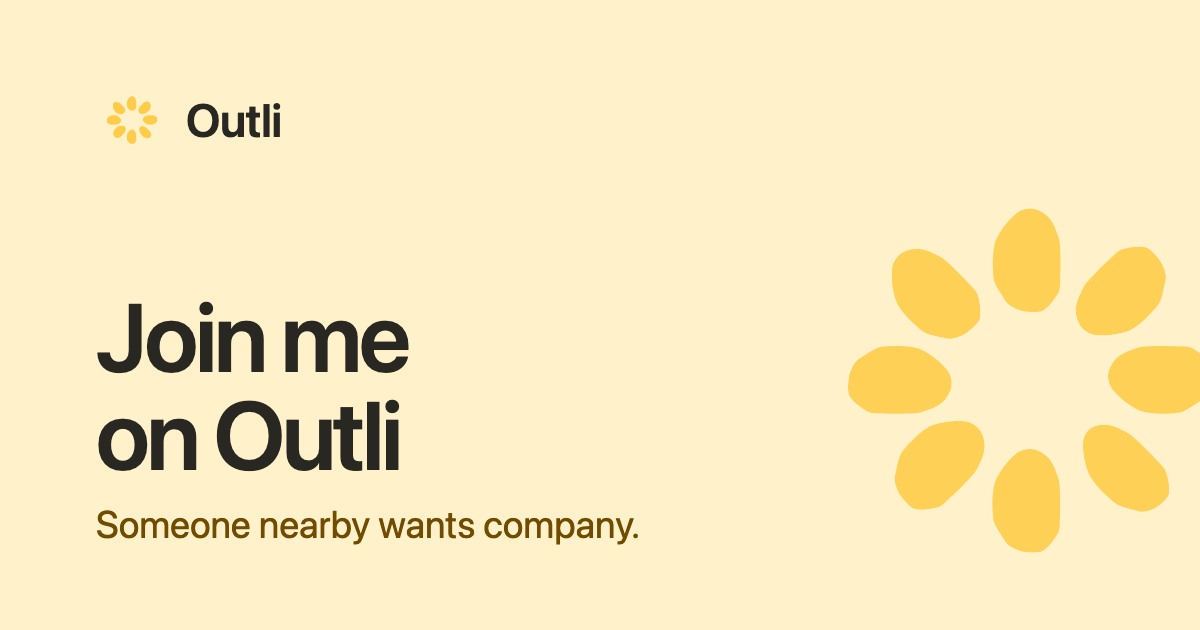
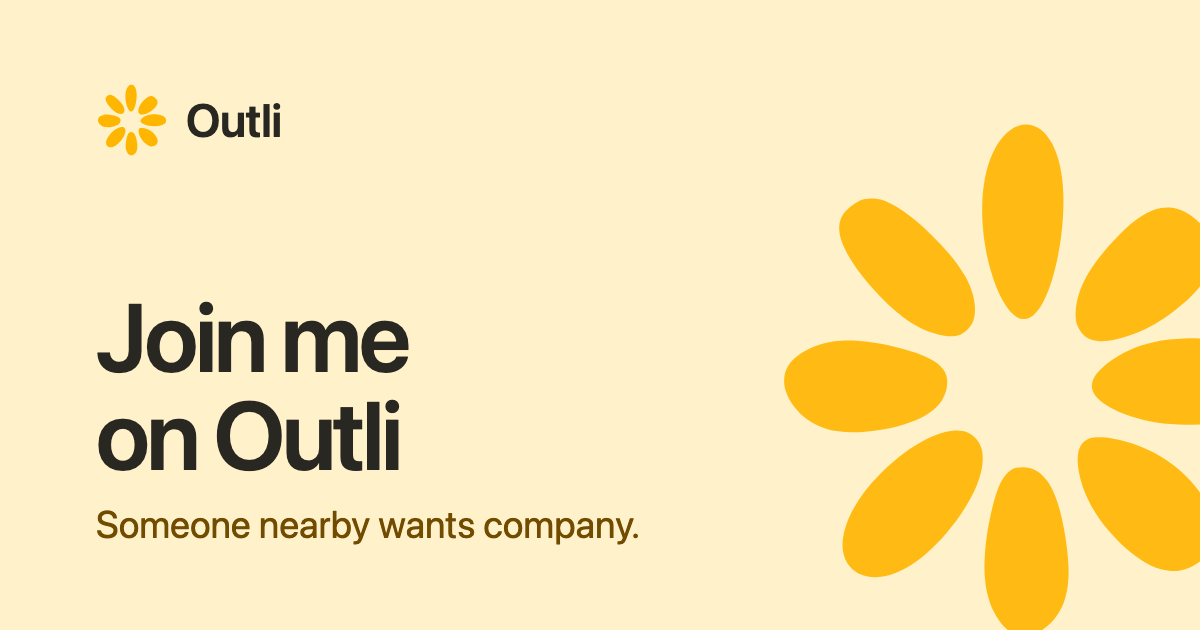
The G3 flower and the new app on the website
- New icon (Assets/app-icon.png) for favicons and the nav/hero logo; the
  share page and its link preview use it too.
- "How it works" mockups show the redesigned app.
- Step 2 is "Join in one tap": open activities take you straight to the chat.

Changed region(s): [[0.6475, 0.181, 1.0, 1.0], [0.0617, 0.1206, 0.1542, 0.2413]]

diff --git a/index.html b/index.html
@@ -3,8 +3,8 @@
   <head>
     <meta charset="UTF-8" />
     <meta name="viewport" content="width=device-width, initial-scale=1.0" />
-    <link rel="icon" href="Assets/App Icon Template-2.png" type="image/png" />
-    <link rel="apple-touch-icon" href="Assets/App Icon Template-2.png" />
+    <link rel="icon" href="Assets/app-icon.png" type="image/png" />
+    <link rel="apple-touch-icon" href="Assets/app-icon.png" />
     <title>Outli — Get Out. Live.</title>
     <meta
       name="description"
@@ -452,7 +452,7 @@
     <!-- NAV -->
     <nav class="site-nav">
       <a href="index.html" class="nav-logo">
-        <img src="Assets/App Icon Template-2.png" alt="Outli" />
+        <img src="Assets/app-icon.png" alt="Outli" />
         <span class="nav-logo-name">Outli</span>
       </a>
       <a href="https://apps.apple.com/us/app/outli/id6760399990" target="_blank" rel="noopener" class="nav-cta">Download on the App Store</a>
@@ -461,7 +461,7 @@
     <!-- HERO -->
     <section class="hero">
       <div class="hero-logo">
-        <img src="Assets/App Icon Template-2.png" alt="Outli logo" />
+        <img src="Assets/app-icon.png" alt="Outli logo" />
       </div>
       <h1 class="hero-headline">
         New City. So much to experience.<br />But don't know anyone?<br />So you
@@ -508,8 +508,8 @@
             </div>
             <div class="step-tab" data-step="1">
               <div class="step-tab-num">02</div>
-              <div class="step-tab-title">Join &amp; accept</div>
-              <p class="step-tab-desc">Join activities happening around you and accept who joins yours.</p>
+              <div class="step-tab-title">Join in one tap</div>
+              <p class="step-tab-desc">See what people nearby want to do. Tap Join and you're straight in the chat.</p>
             </div>
             <div class="step-tab" data-step="2">
               <div class="step-tab-num">03</div>
@@ -568,7 +568,7 @@
     <!-- FOOTER -->
     <footer>
       <a href="index.html" class="footer-logo">
-        <img src="Assets/App Icon Template-2.png" alt="Outli" />
+        <img src="Assets/app-icon.png" alt="Outli" />
         <span>Outli</span>
       </a>
       <div class="footer-links">
@@ -583,7 +583,7 @@
       const mobileDesc = document.querySelector(".mobile-step-desc");
       const stepDescs = [
         "Sign up and finish the sentence. Tell Outli what you're up for — coffee, football, museum, anything.",
-        "Join activities happening around you and accept who joins yours.",
+        "See what people nearby want to do. Tap Join and you're straight in the chat.",
         "Show up. Do the thing. Meet your people. Together.",
         "Keep going. Build your social circle, one activity at a time.",
       ];

diff --git a/a/index.html b/a/index.html
@@ -13,7 +13,7 @@
   <meta property="og:image:width" content="1200" />
   <meta property="og:image:height" content="630" />
   <meta name="twitter:card" content="summary_large_image" />
-  <link rel="icon" href="/Assets/App%20Icon%20Template-2.png" />
+  <link rel="icon" href="/Assets/app-icon.png" />
   <!-- The Smart App Banner's "Open" hands this link to the app, which opens the activity. -->
   <script>
     document.write('<meta name="apple-itunes-app" content="app-id=6760399990, app-argument=' + location.href.replace(/"/g, '') + '">');
@@ -55,7 +55,7 @@
     }
     main { width: 100%; max-width: 440px; display: flex; flex-direction: column; gap: 24px; }
     .brand { display: flex; align-items: center; gap: 8px; text-decoration: none; color: var(--ink); font-weight: 600; font-size: 1.05rem; }
-    .brand img { width: 28px; height: 28px; }
+    .brand img { width: 28px; height: 28px; border-radius: 7px; }
     .card {
       background: var(--surface);
       border: 1px solid var(--border);
@@ -96,7 +96,7 @@
 </head>
 <body>
   <main>
-    <a class="brand" href="/"><img src="/Assets/App%20Icon%20Template-2.png" alt="" />Outli</a>
+    <a class="brand" href="/"><img src="/Assets/app-icon.png" alt="" />Outli</a>
 
     <section class="card" id="activity" hidden>
       <div class="who"><img id="owner-photo" alt="" hidden /><span id="who"></span></div>

diff --git a/privacy.html b/privacy.html
@@ -3,8 +3,8 @@
   <head>
     <meta charset="UTF-8" />
     <meta name="viewport" content="width=device-width, initial-scale=1.0" />
-    <link rel="icon" href="Assets/App Icon Template-2.png" type="image/png" />
-    <link rel="apple-touch-icon" href="Assets/App Icon Template-2.png" />
+    <link rel="icon" href="Assets/app-icon.png" type="image/png" />
+    <link rel="apple-touch-icon" href="Assets/app-icon.png" />
 
     <title>Outli Privacy Policy</title>
 

diff --git a/termsofuse.html b/termsofuse.html
@@ -3,8 +3,8 @@
   <head>
     <meta charset="UTF-8" />
     <meta name="viewport" content="width=device-width, initial-scale=1.0" />
-    <link rel="icon" href="Assets/App Icon Template-2.png" type="image/png" />
-    <link rel="apple-touch-icon" href="Assets/App Icon Template-2.png" />
+    <link rel="icon" href="Assets/app-icon.png" type="image/png" />
+    <link rel="apple-touch-icon" href="Assets/app-icon.png" />
 
     <title>Outli Terms of Use</title>
 

diff --git a/support.html b/support.html
@@ -3,8 +3,8 @@
   <head>
     <meta charset="UTF-8" />
     <meta name="viewport" content="width=device-width, initial-scale=1.0" />
-    <link rel="icon" href="Assets/App Icon Template-2.png" type="image/png" />
-    <link rel="apple-touch-icon" href="Assets/App Icon Template-2.png" />
+    <link rel="icon" href="Assets/app-icon.png" type="image/png" />
+    <link rel="apple-touch-icon" href="Assets/app-icon.png" />
 
     <title>Outli Support</title>
 

diff --git a/CLAUDE.md b/CLAUDE.md
@@ -57,3 +57,9 @@ See `outli_homepage_build_brief.md` for full details. Key constraints:
 - Must be live before April 1, 2026 (TU Berlin orientation deadline)
 - Sections: Hero, How It Works, The Feeling, For Partners/Orgs, Footer
 - Partner contact: hello@outli.live
+
+## Brand assets
+
+- `Assets/app-icon.png` — the G3 flower app icon (white petals on amber, 512 px), used for favicons and the nav/hero logo. Source: Logo / Mark in the Outli-Assets Figma file; the app's own icon is `GroupItV2/AppIcon4.icon`.
+- `Assets/AppMockups/*.png` — phone mockups for "How it works", rendered from the app's screenshot-mode captures (`marketing/app-store/raw/` in the app repo).
+- `Assets/samples/*.jpg` — AI-generated sample portraits used by the app's screenshot mode. Not linked from any page.
